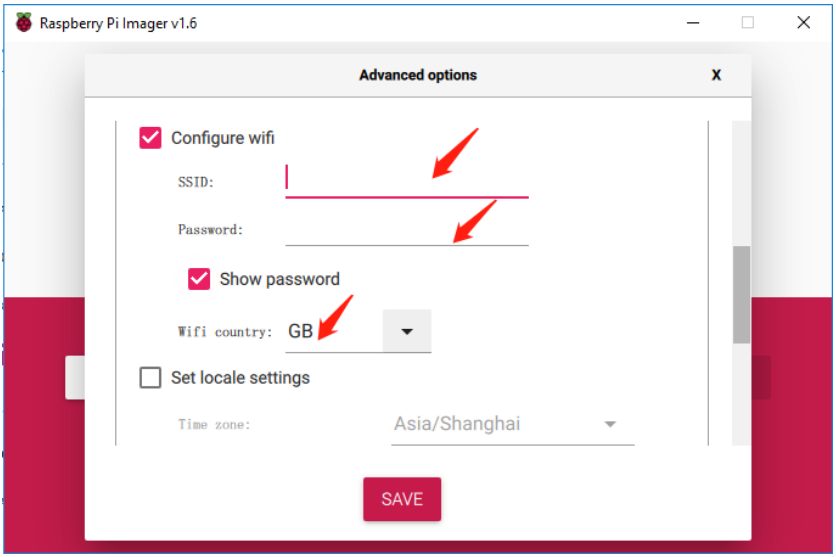
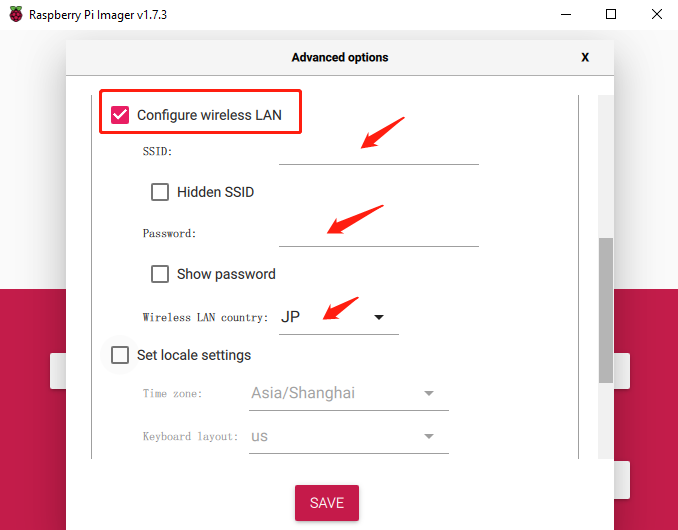
update the os version

diff --git a/docs/source/install_the_rpi_os.rst b/docs/source/install_the_rpi_os.rst
@@ -44,16 +44,17 @@ Insert your SD card into the computer or laptop SD card slot.
 
 **Step 4**
 
-In the Raspberry Pi Imager, select the OS that you want to install and the SD card 
-you would like to install it on.
+In the Raspberry Pi Imager, click **CHOOSE OS** -> **Raspberry Pi OS(Legacy)**.
 
-.. image:: img/image24.png
+    .. warning::
 
-.. note::
-    · You will need to be connected to the internet the first time.
-	
-    · That OS will then be stored for future offline use(lastdownload.cache, C:\\Users\\yourname\\AppData\\Local\\Raspberry Pi\\Imager\\cache). So the next time you open the software, it will have the display "Released: date, cached on your computer".
-	  
+      * Please do not install the **Bookworm** version to avoid the **double-click** function and the **virtual keyboard** not working.
+      * You need to install the **Raspberry Pi OS (Legacy)** version - **Debian Bullseye**.
+      * Additionally, for a perfect touch experience, it is recommended to install the **Ubuntu** system.
+
+    .. image:: img/image24.png
+        :align: center
+
 **Step 5**
 
 Select the SD card you are using.
@@ -62,19 +63,24 @@ Select the SD card you are using.
 
 **Step 6**
 
-Press **Ctrl+Shift+X** to open the **Advanced options** page to enable SSH and 
-configure wifi, these 2 items must be set, the others depend on your choice . You 
-can choose to always use this image customization options.
+To open the advanced options page, click the **setting** button (appears after selecting operating system) or press **Ctrl+Shift+X**. Now, set hostname, enable ssh and set the username and password.
 
-.. image:: img/image26.png
+    .. warning::
 
-Then scroll down to complete the wifi configuration and click SAVE.
+        Make sure to note down the ``hostname``, ``username``, and ``password``; they're crucial for later remote access to the Raspberry Pi.
 
-.. note::
-    **wifi country** should be set the two-letter ISO/IEC alpha2 code for the 
-    country in which you are using your Raspberry Pi, please refer to the following link: https://en.wikipedia.org/wiki/ISO_3166-1_alpha-2#Officially_assigned_code_elements
+    .. image:: img/image26.png
+        :align: center
 
-.. image:: img/image27.png
+
+Then scroll down to complete the wifi configuration and click **SAVE**.
+
+    .. note::
+
+        **wifi country** should be set the two-letter `ISO/IEC alpha2 code <https://en.wikipedia.org/wiki/ISO_3166-1_alpha-2#Officially_assigned_code_elements>`_ for the country in which you are using your Raspberry Pi, please refer to the following link: https://en.wikipedia.org/wiki/ISO_3166-1_alpha-2#Officially_assigned_code_elements
+
+    .. image:: img/image27.png
+        :align: center
 
 **Step 7**
 
